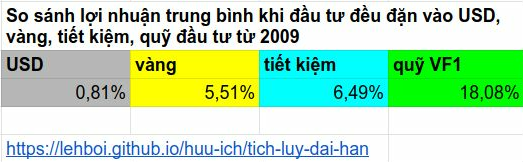
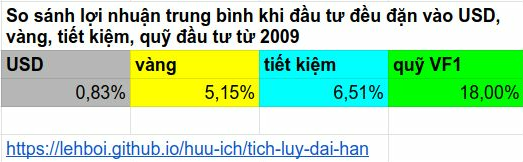
update data

diff --git a/huu-ich/dau-tu-co-phieu/so-tk-hay-dau-tu.html b/huu-ich/dau-tu-co-phieu/so-tk-hay-dau-tu.html
@@ -260,25 +260,25 @@ data-ad-slot="5275186684">
   <p>Các nhà kinh tế nói rằng đầu tư dài hạn vào quỹ đầu tư sẽ có lợi hơn gửi tiết kiệm ở ngân hàng. Lý thuyết đó có đúng trong thực tế không, và nhất là có đúng với thị trường Việt Nam không?</p>
   <h2>Kết quả thực tế</h2>
   <p>Trong bài này, tôi sẽ so sánh kết quả giữa hai phương tiện trên bằng những tính toán trên những số liệu thực tế trong một thời gian dài hơn 12 năm.
-  <br>Thời điểm bắt đầu tính là đầu năm 2009. Từ ngày đó đến ngày 04/11/2021 <!-- Chung!A3 -->
+  <br>Thời điểm bắt đầu tính là đầu năm 2009. Từ ngày đó đến ngày 02/12/2021 <!-- Chung!A3 -->
  là hơn 12 năm.</p>
-  <p>Giả sử anh A tích luỹ tiền bằng cách gửi tiết kiệm ở ngân hàng. Bắt đầu từ đầu năm 2009, mỗi bốn tuần (mỗi năm 13 lần ứng với 13 tháng lương) anh A gửi một triệu đồng vào một sổ tiết kiệm kỳ hạn 12 tháng ở Ngân hàng Ngoại thương Việt Nam, khi đáo hạn sổ đó thì nhập lãi vào gốc để gửi tiếp kỳ mới. Số tiền anh A đã gửi vào là 168 <!-- tiết!B2 -->
- triệu đồng. Vào ngày 04/11/2021 <!-- tiết!A2 -->
- tổng giá trị gốc và lãi là <b> 258,627 <!-- tiết!C2 -->
- triệu đồng</b>, tính ra lợi nhuận trung bình của việc tích luỹ này là <b> 6,49%/năm <!-- tiết!C1 -->
+  <p>Giả sử anh A tích luỹ tiền bằng cách gửi tiết kiệm ở ngân hàng. Bắt đầu từ đầu năm 2009, mỗi bốn tuần (mỗi năm 13 lần ứng với 13 tháng lương) anh A gửi một triệu đồng vào một sổ tiết kiệm kỳ hạn 12 tháng ở Ngân hàng Ngoại thương Việt Nam, khi đáo hạn sổ đó thì nhập lãi vào gốc để gửi tiếp kỳ mới. Số tiền anh A đã gửi vào là 169 <!-- tiết!B2 -->
+ triệu đồng. Vào ngày 02/12/2021 <!-- tiết!A2 -->
+ tổng giá trị gốc và lãi là <b> 261,139 <!-- tiết!C2 -->
+ triệu đồng</b>, tính ra lợi nhuận trung bình của việc tích luỹ này là <b> 6,51%/năm <!-- tiết!C1 -->
 
 </b>. Mặc dù trong 12 năm qua có những lúc lãi suất tiết kiệm lên đến 14%/năm, nhưng do anh A gửi góp theo thời gian nên những khoản tiền gửi trễ sinh ra ít tiền lãi hơn những khoản tiền gửi sớm. Lợi nhuận trung bình đó đang giảm dần vì lãi suất tiết kiệm đã thấp hơn số trung bình đó từ bảy năm nay. Số liệu tính toán <a href="https://docs.google.com/spreadsheets/d/1br9PAhnFj5H2_XtqKL-8MjcCWTU3JP4WGf7guHMdcGo/edit#gid=1998350075" target='_blank'>trong bảng tính này</a>.</p>
 
-  <p>Giả sử anh B tích luỹ tiền bằng quĩ đầu tư VF1. Bắt đầu từ đầu năm 2009 mỗi bốn tuần anh B gửi một triệu đồng vào quỹ <b>VF1</b>. Số tiền anh B đã gửi vào cũng là 168 <!-- tiết!B2 -->
- triệu đồng như anh A. Vào ngày 04/11/2021 <!-- Chung!A3 -->
- giá trị tài khoản đầu tư của anh B là <b> 591,921 <!-- DCDS!J4 -->
- triệu đồng</b>. Lợi nhuận trung bình của việc tích luỹ này là <span class="red"><b> 18,17%/năm <!-- DCDS!J2 -->
+  <p>Giả sử anh B tích luỹ tiền bằng quĩ đầu tư VF1. Bắt đầu từ đầu năm 2009 mỗi bốn tuần anh B gửi một triệu đồng vào quỹ <b>VF1</b>. Số tiền anh B đã gửi vào cũng là 169 <!-- tiết!B2 -->
+ triệu đồng như anh A. Vào ngày 02/12/2021 <!-- Chung!A3 -->
+ giá trị tài khoản đầu tư của anh B là <b> 593,209 <!-- DCDS!J4 -->
+ triệu đồng</b>. Lợi nhuận trung bình của việc tích luỹ này là <span class="red"><b> 18,00%/năm <!-- DCDS!J2 -->
  </b></span>.</p>
 
   <p>Bảng dưới đây cho biết lợi nhuận trung bình của mọi khoản đầu tư đều đặn vào những quỹ đầu tư trong 10/5/3/2/1 năm qua.</p>
   <div><amp-img alt="Kết quả đầu tư đều đặn" src="/data/VFM.png" height="281" width="565" layout="responsive"></amp-img></a></div>
 
-  <p>Trong thực tế thì số tiền anh A có chắc chắn phải thấp hơn 258,627 <!-- tiết!C2 -->
+  <p>Trong thực tế thì số tiền anh A có chắc chắn phải thấp hơn 261,139 <!-- tiết!C2 -->
  triệu đồng vì:</p>
   <ol>
     <li>Tiền lãi khi đáo hạn sẽ bị làm tròn xuống đến hàng ngàn, và những tiền lẻ dưới chục ngàn hoặc trăm ngàn sẽ không được nhập vào gốc để sinh lời tiếp vì anh A thấy nó lẻ.</li>
@@ -286,7 +286,7 @@ data-ad-slot="5275186684">
     <li>Không dễ để nhớ gửi tiền tiết kiệm đều đặn nhưng lại rất dễ để rút tiền ra dùng khi cần mua sắm iPhone, LED TV, scooter làm cho số tiền bị hao hụt nhiều.</li>
   </ol>
 
-  <p>Ngoài ra, khi gửi ngân hàng kiểu đó thì anh A phải giữ từ 14 đến 168 <!-- tiết!B2 -->
+  <p>Ngoài ra, khi gửi ngân hàng kiểu đó thì anh A phải giữ từ 14 đến 169 <!-- tiết!B2 -->
  sổ tiết kiệm. Có thời gian tôi cũng làm như vậy (online) và tôi cảm thấy vô cùng lúng túng với hàng loạt con số trên màn hình. Trong khi đó đầu tư vào quỹ đầu tư thì mỗi người chỉ cần biết một vài con số.
   <br>Ngân hàng cũng có một loại tiết kiệm mà không tạo ra nhiều sổ, đó là tiết kiệm gửi góp. Tôi khuyên các bạn đừng dùng các loại tiết kiệm gửi góp của các ngân hàng. Mặc dù nó có vẻ giống như các kế hoạch đầu tư ở chỗ góp tiền vào một tài khoản, nhưng các ngân hàng không chuyên quản lý sổ tiết kiệm dài hạn và họ cũng không thích việc đó nên lãi suất dạng đó thấp hơn lãi suất 12 tháng. Tôi đã có một kinh nghiệm không vui với loại tiết kiệm gửi góp đó, sẽ kể lại trong một trang khác.</p>
 
@@ -299,10 +299,10 @@ data-ad-slot="5275186684">
   <p>Các con số lãi suất ở trên là lãi kép nên thời gian càng dài thì kết quả càng lớn. Ví dụ với lãi suất như trên, gửi mỗi bốn tuần một triệu đồng sau 30 năm sẽ từ 390 triệu đồng:</p>
   <span class="red">
   <ul>
-    <li>được khoảng 1,009 <!-- So!A4 -->
+    <li>được khoảng 1,010 <!-- So!A4 -->
  tỉ đồng nếu gửi ngân hàng</li>
-    <li>được khoảng 11,645 <!-- So!A7 -->
- tỉ đồng nếu gửi quỹ đầu tư, <b>bằng 11,54 <!-- So!A8 -->
+    <li>được khoảng 11,250 <!-- So!A7 -->
+ tỉ đồng nếu gửi quỹ đầu tư, <b>bằng 11,13 <!-- So!A8 -->
  lần gửi ngân hàng</b></li>
   </ul>
   </span>
@@ -325,15 +325,15 @@ data-ad-slot="5275186684">
 
 
   <h2 id="goldusd">Tiết kiệm bằng USD hoặc vàng có tốt hơn không?</h2>
-  <p>Tôi giả định rằng chị U mua 100 USD mỗi bốn tuần từ đầu năm 2009 đến nay chị U có 16.800 <!-- Gold!J3 -->
- USD tương đương 379,344 <!-- Gold!L4 -->
- triệu đồng và chị U đã bỏ ra hết 360,892 <!-- Gold!K3 -->
- triệu đồng, tính ra lợi nhuận trung bình của việc tích luỹ này là 0,81%/năm <!-- Gold!L2 -->
+  <p>Tôi giả định rằng chị U mua 100 USD mỗi bốn tuần từ đầu năm 2009 đến nay chị U có 16.900 <!-- Gold!J3 -->
+ USD tương đương 382,447 <!-- Gold!L4 -->
+ triệu đồng và chị U đã bỏ ra hết 363,155 <!-- Gold!K3 -->
+ triệu đồng, tính ra lợi nhuận trung bình của việc tích luỹ này là 0,83%/năm <!-- Gold!L2 -->
 .
-  <br>Lại giả định tiếp, từ đầu năm 2009 đến nay mỗi bốn tuần chị G dùng 100 USD mua một số gram vàng lẻ đến một phần triệu gram. Đến nay chị G có 391,220 <!-- Gold!I4 -->
- gram vàng, trị giá 22.592,96 <!-- Gold!J4 -->
- USD. Như vậy với cùng số tiền bỏ ra như chị U, nhưng chị G thu lại được nhiều hơn 34,48% <!-- Gold!L3 -->
- và  lợi nhuận trung bình của việc tích luỹ này là 5,51%/năm <!-- Gold!K2 -->
+  <br>Lại giả định tiếp, từ đầu năm 2009 đến nay mỗi bốn tuần chị G dùng 100 USD mua một số gram vàng lẻ đến một phần triệu gram. Đến nay chị G có 392,982 <!-- Gold!I4 -->
+ gram vàng, trị giá 22.301,74 <!-- Gold!J4 -->
+ USD. Như vậy với cùng số tiền bỏ ra như chị U, nhưng chị G thu lại được nhiều hơn 31,96% <!-- Gold!L3 -->
+ và  lợi nhuận trung bình của việc tích luỹ này là 5,15%/năm <!-- Gold!K2 -->
 , thấp hơn gửi tiết kiệm VND và thấp hơn tích luỹ bằng quỹ đầu tư. Lợi nhuận trung bình này có lẽ cũng tương đương mức trượt giá trung bình trong cùng thời gian, điều đó cho thấy tích luỹ bằng vàng không có lời.
   <br>Các số liệu về tỷ giá USD-VND và giá vàng từ đầu năm 2009 đến nay được lấy từ website Vietcombank.com.vn và www.gold.org.</p>
   <p>Bảng dưới đây so sánh lợi nhuận trung bình của việc đầu tư đều đặn vào các kênh từ năm 2009.</p>
